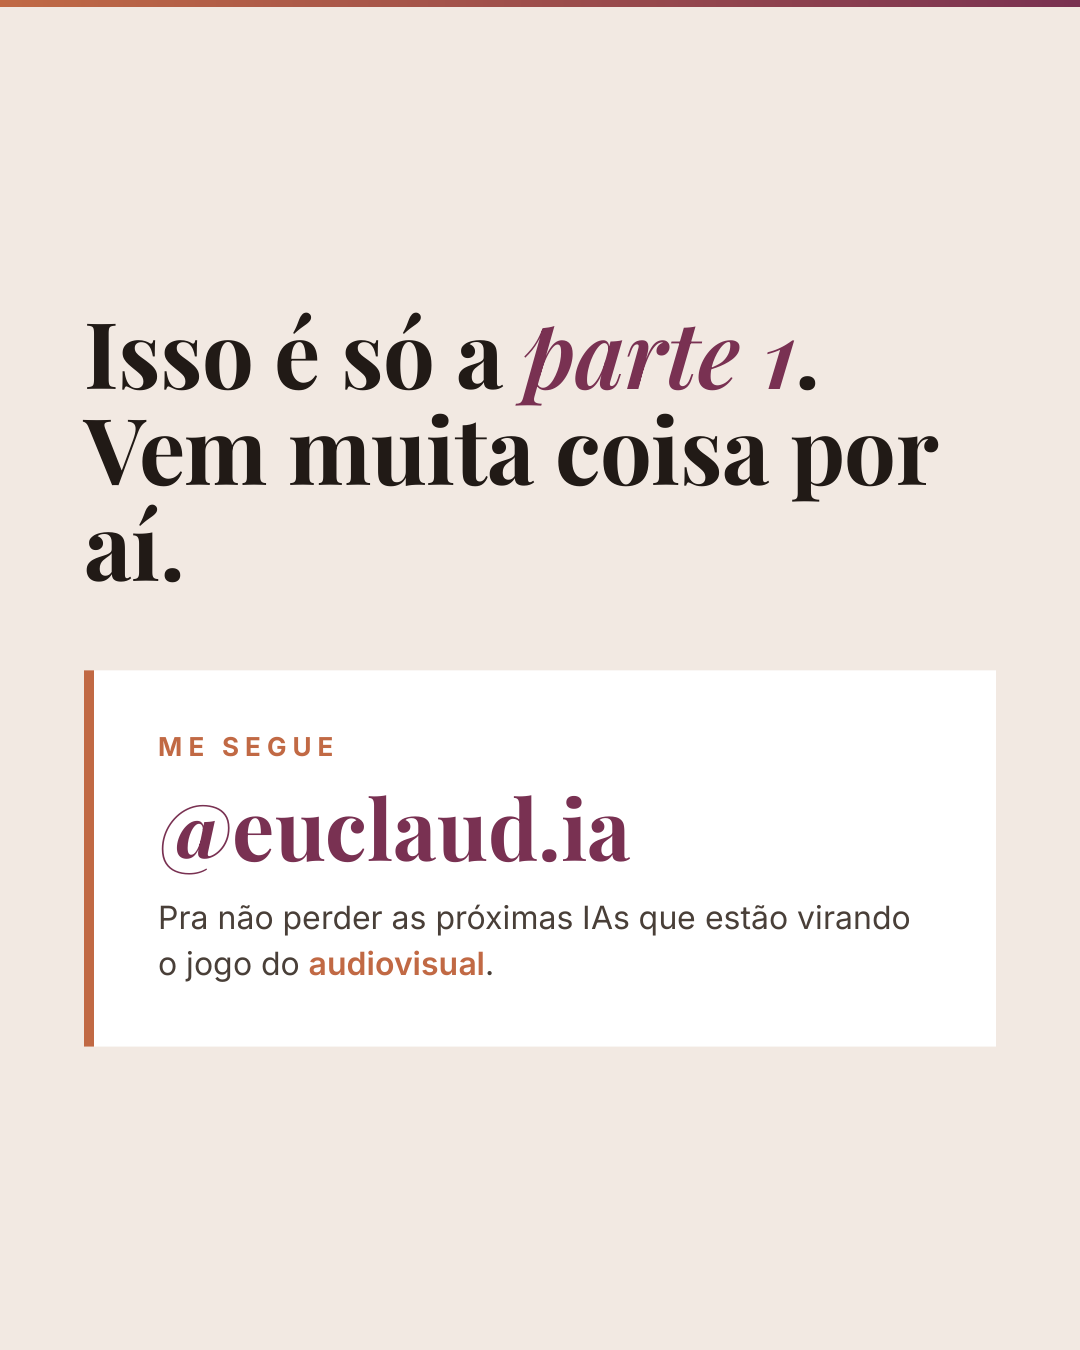
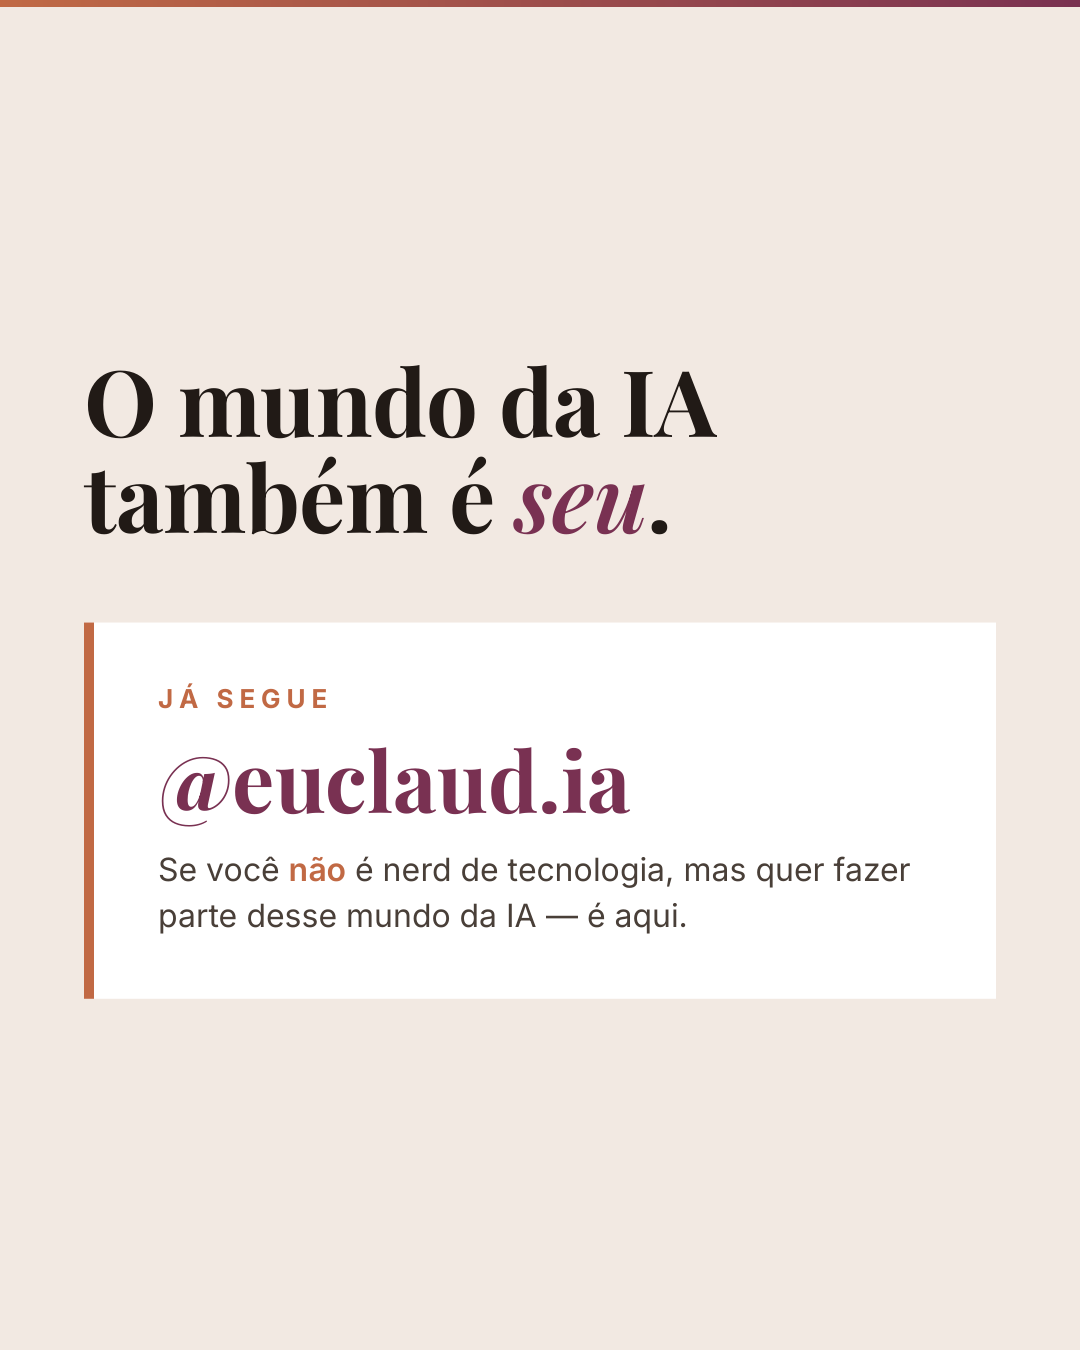
Rewrite final CTA card copy + align caption
CTA now: 'O mundo da IA tambem e seu' + 'Se voce nao e nerd de
tecnologia, mas quer fazer parte desse mundo da IA - e aqui.'

Changed region(s): [[0.0611, 0.2178, 0.9472, 0.7778], [0.7333, 0.28, 0.8861, 0.3733]]

diff --git a/carrossel-heman-ia/carrossel.html b/carrossel-heman-ia/carrossel.html
@@ -179,11 +179,11 @@
   <!-- 8 — CTA -->
   <section class="slide cta" id="s8">
     <div class="topbar"></div>
-    <h2 class="title">Isso é só a <span class="it">parte 1</span>. Vem muita coisa por aí.</h2>
+    <h2 class="title">O mundo da IA também é <span class="it">seu</span>.</h2>
     <div class="card">
-      <div class="lbl">ME SEGUE</div>
+      <div class="lbl">JÁ SEGUE</div>
       <div class="handle">@euclaud.ia</div>
-      <div class="sub">Pra não perder as próximas IAs que estão virando o jogo do <i>audiovisual</i>.</div>
+      <div class="sub">Se você <i>não</i> é nerd de tecnologia, mas quer fazer parte desse mundo da IA &mdash; é aqui.</div>
     </div>
   </section>
 

diff --git a/carrossel-heman-ia/legenda.md b/carrossel-heman-ia/legenda.md
@@ -12,8 +12,7 @@ Aí eu fui pensar: e se a IA tivesse colocado a mão? Separei **5 modelos de ví
 
 Arrasta até o fim 👉 e me conta: qual delas você botaria pra refazer o filme?
 
-Isso é só a **parte 1**. Vem muita coisa por aí.
-Me segue em **@euclaud.ia** pra não perder. ✨
+Já segue o **@euclaud.ia** se você não é nerd de tecnologia mas quer fazer parte desse mundo da IA. ✨
 
 —
 #heman #mastersoftheuniverse #efeitosespeciais #vfx #inteligenciaartificial #ia #veo3 #sora2 #kling #runway #seedance #videoia #aivideo #cinema #euclaudia
